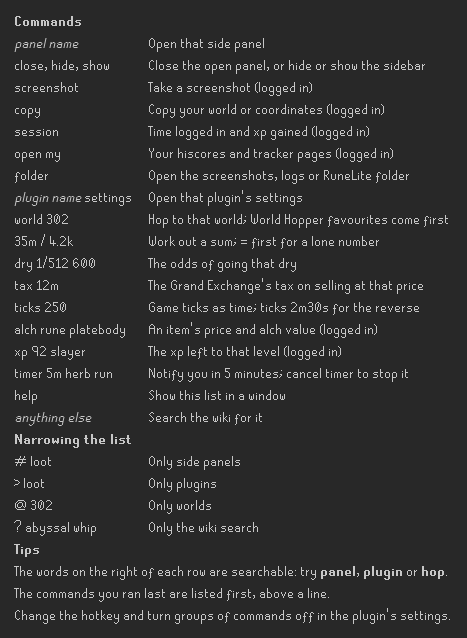
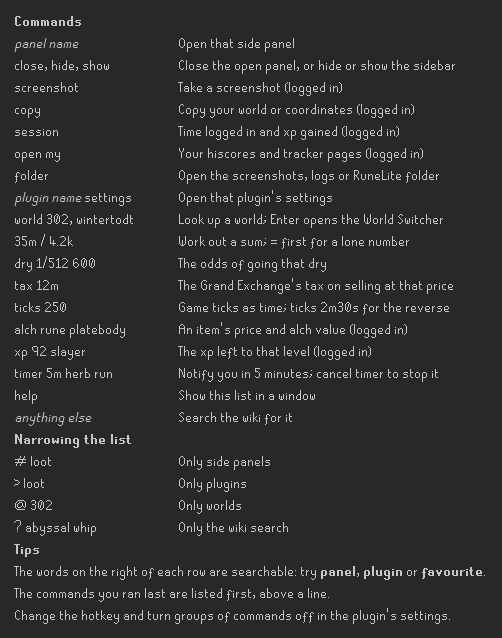
feat: Update command descriptions and improve world lookup functionality

diff --git a/src/main/java/com/commandpalette/WorldCommands.java b/src/main/java/com/commandpalette/WorldCommands.java
@@ -7,77 +7,65 @@ import java.util.EnumSet;
 import java.util.List;
 import java.util.function.IntPredicate;
 import javax.inject.Inject;
-import javax.inject.Singleton;
-import net.runelite.api.ChatMessageType;
 import net.runelite.api.Client;
 import net.runelite.api.GameState;
-import net.runelite.api.events.ChatMessage;
-import net.runelite.api.events.GameTick;
-import net.runelite.api.gameval.InterfaceID;
-import net.runelite.client.callback.ClientThread;
 import net.runelite.client.config.ConfigManager;
-import net.runelite.client.eventbus.Subscribe;
 import net.runelite.client.game.WorldService;
-import net.runelite.client.util.WorldUtil;
 import net.runelite.http.api.worlds.World;
 import net.runelite.http.api.worlds.WorldResult;
 import net.runelite.http.api.worlds.WorldType;
 
 /**
- * A command per world that hops to it, the way the World Hopper plugin does. The worlds made favourites in that
- * plugin's panel come first.
+ * A command per world, to look one up by its number or its activity. The worlds made favourites in the World Hopper
+ * plugin's panel come first. Running one doesn't hop, which a plugin like this one isn't allowed to do: it opens
+ * that plugin's panel, where the world can be clicked.
  */
-@Singleton
 class WorldCommands
 {
-	// Worlds where a slip of the finger costs something, or that an ordinary account can't use
+	// Worlds that an ordinary account doesn't use, or can't
 	private static final EnumSet<WorldType> UNLISTED = EnumSet.of(WorldType.PVP, WorldType.HIGH_RISK, WorldType.DEADMAN,
 		WorldType.BETA_WORLD, WorldType.NOSAVE_MODE, WorldType.TOURNAMENT, WorldType.LEGACY_ONLY, WorldType.EOC_ONLY);
 
 	static final String KIND = "world:";
+	// the name of the World Hopper plugin's side panel
+	static final String SWITCHER_PANEL = "World Switcher";
 
 	// where the World Hopper plugin keeps its favourites, one setting per world
 	private static final String WORLD_HOPPER_GROUP = "worldhopper";
 	private static final String FAVOURITE_PREFIX = "favorite_";
 
-	private static final int OPEN_SWITCHER_MAX_ATTEMPTS = 3;
-	private static final String BUSY_MESSAGE = "Please finish what you're doing before using the World Switcher.";
-
 	private final Client client;
-	private final ClientThread clientThread;
 	private final WorldService worldService;
 	private final ConfigManager configManager;
 
-	// the hop in progress, which needs the game's world switcher open first
-	private net.runelite.api.World target;
-	private int openSwitcherAttempts;
-
 	@Inject
-	WorldCommands(Client client, ClientThread clientThread, WorldService worldService, ConfigManager configManager)
+	WorldCommands(Client client, WorldService worldService, ConfigManager configManager)
 	{
-		this.configManager = configManager;
 		this.client = client;
-		this.clientThread = clientThread;
 		this.worldService = worldService;
+		this.configManager = configManager;
 	}
 
-	void collect(List<Command> out)
+	/**
+	 * @param openSwitcher opens the World Hopper plugin's panel, if it has one
+	 */
+	void collect(List<Command> out, Runnable openSwitcher)
 	{
-		final GameState state = client.getGameState();
 		final WorldResult result = worldService.getWorlds();
-		if (result == null || (state != GameState.LOGGED_IN && state != GameState.LOGIN_SCREEN))
+		if (result == null)
 		{
 			return;
 		}
 
-		final int current = client.getWorld();
+		final int current = client.getGameState() == GameState.LOGGED_IN ? client.getWorld() : -1;
 		for (World world : favouritesFirst(result.getWorlds(), this::isFavourite))
 		{
-			if (world.getId() != current && Collections.disjoint(world.getTypes(), UNLISTED))
+			if (Collections.disjoint(world.getTypes(), UNLISTED))
 			{
 				final boolean favourite = isFavourite(world.getId());
-				out.add(new Command(KIND + world.getId(), "World " + world.getId(), detail(world, favourite),
-					favourite ? Icons.STAR : Icons.GLOBE, () -> clientThread.invoke(() -> hop(world))));
+				out.add(new Command(KIND + world.getId(), "World " + world.getId(),
+					detail(world, favourite, world.getId() == current), favourite ? Icons.STAR : Icons.GLOBE,
+					openSwitcher));
 			}
 		}
 	}
@@ -99,71 +87,14 @@ class WorldCommands
 		return ordered;
 	}
 
-	static String detail(World world, boolean favourite)
+	/**
+	 * "Favourite - Members - Wintertodt"
+	 */
+	static String detail(World world, boolean favourite, boolean current)
 	{
 		final String activity = world.getActivity();
-		return (favourite ? "Hop favourite - " : "Hop - ")
+		return (current ? "Current - " : "") + (favourite ? "Favourite - " : "")
 			+ (world.getTypes().contains(WorldType.MEMBERS) ? "Members" : "Free")
 			+ (activity == null || activity.isEmpty() || activity.equals("-") ? "" : " - " + activity);
-	}
-
-	void reset()
-	{
-		target = null;
-		openSwitcherAttempts = 0;
-	}
-
-	private void hop(World world)
-	{
-		final net.runelite.api.World rsWorld = client.createWorld();
-		rsWorld.setActivity(world.getActivity());
-		rsWorld.setAddress(world.getAddress());
-		rsWorld.setId(world.getId());
-		rsWorld.setPlayerCount(world.getPlayers());
-		rsWorld.setLocation(world.getLocation());
-		rsWorld.setTypes(WorldUtil.toWorldTypes(world.getTypes()));
-
-		if (client.getGameState() == GameState.LOGIN_SCREEN)
-		{
-			// on the login screen the world can just be changed
-			client.changeWorld(rsWorld);
-			return;
-		}
-		target = rsWorld;
-		openSwitcherAttempts = 0;
-	}
-
-	@Subscribe
-	public void onGameTick(GameTick event)
-	{
-		if (target == null)
-		{
-			return;
-		}
-
-		if (client.getWidget(InterfaceID.Worldswitcher.BUTTONS) == null)
-		{
-			client.openWorldHopper();
-			if (++openSwitcherAttempts >= OPEN_SWITCHER_MAX_ATTEMPTS)
-			{
-				client.addChatMessage(ChatMessageType.GAMEMESSAGE, "",
-					"Couldn't hop to world " + target.getId() + ": the world switcher wouldn't open.", null);
-				reset();
-			}
-		}
-		else
-		{
-			client.hopToWorld(target);
-			reset();
-		}
-	}
-
-	@Subscribe
-	public void onChatMessage(ChatMessage event)
-	{
-		if (event.getType() == ChatMessageType.GAMEMESSAGE && BUSY_MESSAGE.equals(event.getMessage()))
-		{
-			reset();
-		}
 	}
 }

diff --git a/src/test/java/com/commandpalette/CommandFilterTest.java b/src/test/java/com/commandpalette/CommandFilterTest.java
@@ -69,8 +69,8 @@ public class CommandFilterTest
 			new Command("panel:Loot Tracker", "Loot Tracker", "Open panel", null, () -> {}),
 			new Command("plugin:Loot Tracker", "Loot Tracker", "Turn plugin off", null, () -> {}),
 			new Command("plugin:World Hopper", "World Hopper", "Turn plugin off", null, () -> {}),
-			new Command("world:302", "World 302", "Hop - Members", null, () -> {}),
-			new Command("world:330", "World 330", "Hop - Members - House Party", null, () -> {}));
+			new Command("world:302", "World 302", "Members", null, () -> {}),
+			new Command("world:330", "World 330", "Members - House Party", null, () -> {}));
 		return CommandFilter.filter(commands, query).stream()
 			.map(c -> c.getTitle() + " / " + c.getDetail())
 			.collect(Collectors.toList());
@@ -84,9 +84,9 @@ public class CommandFilterTest
 		assertEquals(Arrays.asList(), titles("#world"));
 		assertEquals(Arrays.asList("Loot Tracker / Turn plugin off", "World Hopper / Turn plugin off"), titles(">"));
 		assertEquals(Arrays.asList("Loot Tracker / Turn plugin off"), titles("> loot"));
-		assertEquals(Arrays.asList("World 302 / Hop - Members", "World 330 / Hop - Members - House Party"), titles("@"));
-		assertEquals(Arrays.asList("World 330 / Hop - Members - House Party"), titles("@party"));
-		assertEquals(Arrays.asList("World 302 / Hop - Members"), titles(" @ 302"));
+		assertEquals(Arrays.asList("World 302 / Members", "World 330 / Members - House Party"), titles("@"));
+		assertEquals(Arrays.asList("World 330 / Members - House Party"), titles("@party"));
+		assertEquals(Arrays.asList("World 302 / Members"), titles(" @ 302"));
 	}
 
 	@Test
@@ -98,7 +98,7 @@ public class CommandFilterTest
 	@Test
 	public void withoutAPrefixEveryKindIsSearched()
 	{
-		assertEquals(Arrays.asList("World Hopper / Turn plugin off", "World 302 / Hop - Members",
-			"World 330 / Hop - Members - House Party"), titles("world"));
+		assertEquals(Arrays.asList("World Hopper / Turn plugin off", "World 302 / Members",
+			"World 330 / Members - House Party"), titles("world"));
 	}
 }

diff --git a/src/main/java/com/commandpalette/CommandPalettePlugin.java b/src/main/java/com/commandpalette/CommandPalettePlugin.java
@@ -29,7 +29,7 @@ import org.slf4j.LoggerFactory;
 
 @PluginDescriptor(
 	name = "Command Palette",
-	description = "A hotkey-driven, searchable list of commands: jump to any side panel, hop worlds, open plugin settings",
+	description = "A hotkey-driven, searchable list of commands: jump to any side panel, look up worlds, open plugin settings",
 	tags = {"command", "palette", "sidebar", "panel", "hotkey", "keyboard", "search", "navigation"}
 )
 public class CommandPalettePlugin extends Plugin implements KeyEventDispatcher, PalettePanel.Listener
@@ -94,8 +94,6 @@ public class CommandPalettePlugin extends Plugin implements KeyEventDispatcher, 
 		// Not the KeyManager: that only hears keys pressed on the game, and the palette should also open from a
 		// side panel, and close from its own search field
 		KeyboardFocusManager.getCurrentKeyboardFocusManager().addKeyEventDispatcher(this);
-		// a hop takes a few game ticks to carry out
-		eventBus.register(worldCommands);
 		eventBus.register(sessionCommands);
 	}
 
@@ -114,9 +112,7 @@ public class CommandPalettePlugin extends Plugin implements KeyEventDispatcher, 
 	protected void shutDown()
 	{
 		KeyboardFocusManager.getCurrentKeyboardFocusManager().removeKeyEventDispatcher(this);
-		eventBus.unregister(worldCommands);
 		eventBus.unregister(sessionCommands);
-		worldCommands.reset();
 		sessionCommands.reset();
 		timers.reset();
 		SwingUtilities.invokeLater(() ->
@@ -215,7 +211,7 @@ public class CommandPalettePlugin extends Plugin implements KeyEventDispatcher, 
 		}
 		if (config.worldCommands())
 		{
-			worldCommands.collect(commands);
+			worldCommands.collect(commands, () -> sidebarCommands.open(frame, WorldCommands.SWITCHER_PANEL));
 		}
 
 		if (dialog == null)

diff --git a/src/test/java/com/commandpalette/DemoGifTest.java b/src/test/java/com/commandpalette/DemoGifTest.java
@@ -88,10 +88,10 @@ public class DemoGifTest
 		{
 			commands.add(command(PluginCommands.SETTINGS_KIND + plugin, plugin, "Open settings", Icons.COG));
 		}
-		commands.add(command(WorldCommands.KIND + 301, "World 301", "Hop - Free - Trade", Icons.GLOBE));
-		commands.add(command(WorldCommands.KIND + 302, "World 302", "Hop - Members - Trade", Icons.GLOBE));
-		commands.add(command(WorldCommands.KIND + 307, "World 307", "Hop - Members - Wintertodt", Icons.GLOBE));
-		commands.add(command(WorldCommands.KIND + 309, "World 309", "Hop - Members - Wintertodt", Icons.GLOBE));
+		commands.add(command(WorldCommands.KIND + 301, "World 301", "Free - Trade", Icons.GLOBE));
+		commands.add(command(WorldCommands.KIND + 302, "World 302", "Members - Trade", Icons.GLOBE));
+		commands.add(command(WorldCommands.KIND + 307, "World 307", "Members - Wintertodt", Icons.GLOBE));
+		commands.add(command(WorldCommands.KIND + 309, "World 309", "Members - Wintertodt", Icons.GLOBE));
 		commands.add(command("help", "Help", "What to type", Icons.HELP));
 		return commands;
 	}
@@ -234,7 +234,7 @@ public class DemoGifTest
 		type("loot");
 		press(KeyEvent.VK_DOWN, 2);
 		clear();
-		type("hop wint");
+		type("wintertodt");
 		clear();
 		type(">scr");
 		clear();

diff --git a/src/test/java/com/commandpalette/PalettePreviewTest.java b/src/test/java/com/commandpalette/PalettePreviewTest.java
@@ -52,8 +52,8 @@ public class PalettePreviewTest
 		commands.add(new Command("Loot Tracker", "Turn plugin off", Icons.SWITCH_ON, () -> {}));
 		commands.add(new Command("Twitch", "Turn plugin on", Icons.SWITCH_OFF, () -> {}));
 		commands.add(new Command("Loot Tracker", "Open settings", Icons.COG, () -> {}));
-		commands.add(new Command("World 330", "Hop favourite - Members - House Party", Icons.STAR, () -> {}));
-		commands.add(new Command("World 302", "Hop - Members", Icons.GLOBE, () -> {}));
+		commands.add(new Command("World 330", "Favourite - Members - House Party", Icons.STAR, () -> {}));
+		commands.add(new Command("World 302", "Members", Icons.GLOBE, () -> {}));
 		commands.add(new Command("= 8,333.33", "Copy", Icons.EQUALS, () -> {}));
 		commands.add(new Command("Rune platebody", "Price and alch value", Icons.of(icon(7).getImage()), () -> {}));
 		commands.add(new Command("No icon at all", "", null, () -> {}));

diff --git a/src/test/java/com/commandpalette/WorldCommandsTest.java b/src/test/java/com/commandpalette/WorldCommandsTest.java
@@ -29,8 +29,11 @@ public class WorldCommandsTest
 	@Test
 	public void detailSaysWhatKindOfWorldItIs()
 	{
-		assertEquals("Hop - Free", WorldCommands.detail(world(301, "-"), false));
-		assertEquals("Hop - Members - Wintertodt", WorldCommands.detail(world(309, "Wintertodt", WorldType.MEMBERS), false));
-		assertEquals("Hop favourite - Members", WorldCommands.detail(world(302, "", WorldType.MEMBERS), true));
+		assertEquals("Free", WorldCommands.detail(world(301, "-"), false, false));
+		assertEquals("Members - Wintertodt",
+			WorldCommands.detail(world(309, "Wintertodt", WorldType.MEMBERS), false, false));
+		assertEquals("Favourite - Members", WorldCommands.detail(world(302, "", WorldType.MEMBERS), true, false));
+		assertEquals("Current - Favourite - Members",
+			WorldCommands.detail(world(302, "", WorldType.MEMBERS), true, true));
 	}
 }

diff --git a/src/main/java/com/commandpalette/HelpCommand.java b/src/main/java/com/commandpalette/HelpCommand.java
@@ -76,7 +76,7 @@ class HelpCommand
 		}
 		if (config.worldCommands())
 		{
-			commands.row("world 302", "Hop to that world; World Hopper favourites come first");
+			commands.row("world 302, wintertodt", "Look up a world; Enter opens the World Switcher");
 		}
 		if (config.lookupCommands())
 		{
@@ -105,7 +105,7 @@ class HelpCommand
 
 		final Section tips = new Section("Tips");
 		tips.note("The words on the right of each row are searchable: try <b>panel</b>,"
-			+ " <b>plugin</b> or <b>hop</b>.");
+			+ " <b>plugin</b> or <b>favourite</b>.");
 		if (config.recentFirst())
 		{
 			tips.note("The commands you ran last are listed first, above a line.");

diff --git a/src/main/java/com/commandpalette/SidebarCommands.java b/src/main/java/com/commandpalette/SidebarCommands.java
@@ -64,4 +64,20 @@ class SidebarCommands
 			out.add(new Command(SIDEBAR_KIND + "toggle", sidebar.isVisible() ? "Hide sidebar" : "Show sidebar", "", Icons.SIDEBAR, () -> toggle.doClick(0)));
 		}
 	}
+
+	/**
+	 * Opens the side panel of that name, if there is one.
+	 */
+	void open(Container window, String name)
+	{
+		final JTabbedPane sidebar = Sidebar.find(window);
+		for (int i = 0; sidebar != null && i < sidebar.getTabCount(); i++)
+		{
+			if (name.equals(sidebar.getToolTipTextAt(i)))
+			{
+				Sidebar.open(window, sidebar, sidebar.getComponentAt(i), onForcedOpen);
+				return;
+			}
+		}
+	}
 }

diff --git a/src/main/java/com/commandpalette/CommandPaletteConfig.java b/src/main/java/com/commandpalette/CommandPaletteConfig.java
@@ -179,8 +179,9 @@ public interface CommandPaletteConfig extends Config
 
 	@ConfigItem(
 		keyName = "worldCommands",
-		name = "World hopping",
-		description = "List every world, to hop to it, the World Hopper plugin's favourites first."
+		name = "Worlds",
+		description = "List every world, to look one up by its number or activity, the World Hopper plugin's"
+			+ " favourites first. Running one opens the World Switcher panel; it doesn't hop."
 			+ " PvP, high risk and Deadman worlds are left out.",
 		section = commandsSection,
 		position = 7

diff --git a/README.md b/README.md
@@ -2,7 +2,7 @@
 
 A keyboard-driven list of commands for RuneLite. Press a hotkey, type a few letters, press `Enter`.
 
-<img src="docs/demo.gif" alt="Typing into the palette: finding a panel, hopping worlds, a plugin's settings, a sum, the tax on a sale, a timer, xp to a level and a wiki search" width="361">
+<img src="docs/demo.gif" alt="Typing into the palette: finding a panel, looking up worlds, a plugin's settings, a sum, the tax on a sale, a timer, xp to a level and a wiki search" width="361">
 
 ## Using it
 
@@ -76,14 +76,15 @@ Timers go up to a day and are lost when the client closes. RuneLite's notificati
 its settings, only sent while the client isn't the window in use; the chat message is there either way when you
 are logged in.
 
-### World hopping
+### Worlds
 
 | Command | What it does |
 | --- | --- |
-| World *number* - Hop | Hops to that world, as the World Hopper plugin does; on the login screen it changes the selected world. Type `world 302`, or part of an activity such as `hop wintertodt`. |
+| World *number* | Looks up a world: type `world 302`, or part of an activity such as `wintertodt`, to see whether it is a members' world and what it is for. Running one opens the World Hopper plugin's panel, World Switcher, where you click the world to hop. |
 
-The worlds you have made favourites in the World Hopper plugin's panel come first, with a star, and `favourite`
-finds just those. PvP, high risk, Deadman and beta worlds aren't listed.
+The palette doesn't hop itself; Plugin Hub plugins may only hop from a button in a side panel. The worlds you have
+made favourites in the World Hopper plugin's panel come first, with a star, and `favourite` finds just those. The
+world you are on says `Current`. PvP, high risk, Deadman and beta worlds aren't listed.
 
 ### Plugins
 
@@ -103,7 +104,7 @@ turn it on from the Configuration panel, which asks before turning the other one
 | Search the wiki for "..." | Always listed last once you have typed something; opens the OSRS Wiki's search for it in your browser |
 | Help | Shows the commands that are turned on, with an example of each. The **Help** section of the settings points to it. |
 
-<img src="docs/help.png" alt="The help window, listing the commands and the symbols that narrow the list" width="467">
+<img src="docs/help.png" alt="The help window, listing the commands and the symbols that narrow the list" width="502">
 
 ## Finding a command
 
